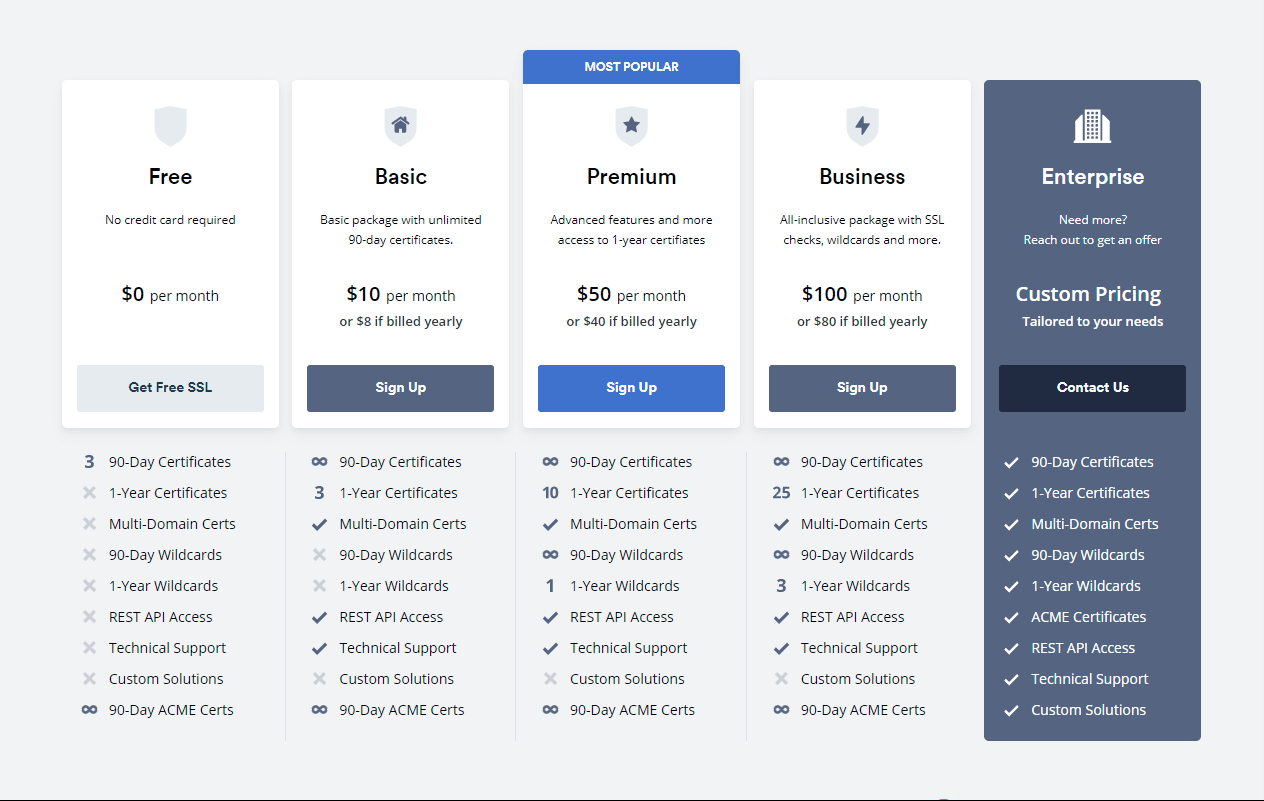
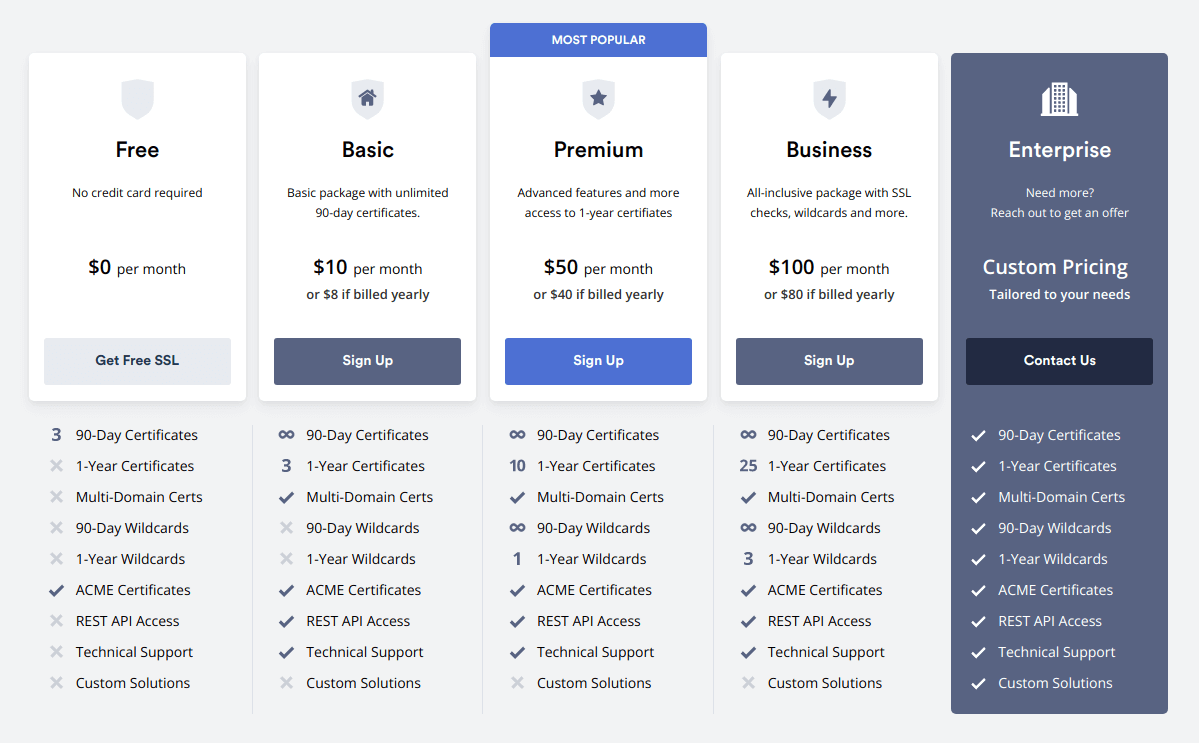
Article and About Page Update
Plus:
* Minify Whitespaces

diff --git a/content/post/2021-08-26-cara-memasang-zerossl-dan-renew-otomatis-di-netlify-bunnycdn/index.md b/content/post/2021-08-26-cara-memasang-zerossl-dan-renew-otomatis-di-netlify-bunnycdn/index.md
@@ -17,10 +17,10 @@ Tags:
 readMore: true
 DescriptionSEO: Apakah Anda ingin memasang ZeroSSL, tapi Anda juga ingin bisa me-renew nya secara otomatis di Netlify dan BunnyCDN? Jika iya, Anda bisa baca artikel ini untuk mengetahuinya.
 Description: >
-    Blog ini telah menggunakan ZeroSSL sebagai Sertifikat SSL nya, tapi kendalanya adalah bahwa SSL ini tidak didukung oleh Penyedia Web secara luas, artinya SSL tersebut belum bisa _di-renew_ secara otomatis.
+    Blog ini telah menggunakan ZeroSSL sebagai Sertifikat SSL nya, tapi kendalanya adalah CA ini tidak didukung oleh Penyedia Web secara luas, artinya Sertifikat tersebut belum bisa _di-renew_ secara otomatis.
     
     
-    Tapi akhirnya, kendala tersebut bisa saya atasi berkat bantuan dari referensi-referensi yang ada dan saya ingin membagikan nya pada Anda, terutama untuk pengguna [Netlify](https://www.netlify.com) dan [BunnyCDN](https://afiliasi.farrel.franqois.id/bunnycdn).
+    Tapi akhirnya, kendala tersebut bisa saya atasi berkat bantuan dari beberapa referensi yang ada dan saya ingin membagikan nya pada Anda, terutama untuk pengguna [Netlify](https://www.netlify.com) dan [BunnyCDN](https://afiliasi.farrel.franqois.id/bunnycdn).
     
     
     Jika Anda ingin memasang Sertifikat SSL dari ZeroSSL pada Web Statis Anda yang menggunakan Netlify sebagai Hosting atau menggunakan BunnyCDN, serta _me-renew_ nya secara otomatis atau Anda yang sekadar ingin tahu saja, mungkin Anda bisa baca artikel ini.
@@ -29,11 +29,11 @@ Description: >
 {{< toc >}}
 
 ## Pembuka
-Artikel kali ini akan membahas tentang Cara memasang ZeroSSL + Renew secara Otomatis di Netlify dan BunnyCDN.
+Artikel kali ini akan membahas tentang Cara memasang ZeroSSL + Renew secara Otomatis di [Netlify](https://www.netlify.com) dan [BunnyCDN](https://afiliasi.farrel.franqois.id/bunnycdn).
 
 Blog ini telah menggunakan ZeroSSL sebagai Sertifikat SSL nya dalam bentuk _Wildcard_. Gak percaya? Silahkan Anda lihat sendiri sertifikat SSL di Blog ini atau kunjungi domain saya, yakni [franqois.id](https://franqois.id), lalu lihat sertifikat nya.
 
-Kendala saat pemasangan nya adalah tidak banyak penyedia yang mendukung ZeroSSL ini, kebanyakan hanya mendukung Let's Encrypt saja.
+Kendala saat pemasangan nya adalah tidak banyak penyedia yang mendukungnya, kebanyakan hanya mendukung Let's Encrypt saja.
 
 Sehingga saya perlu menggunakan acme.sh untuk menerbitkan/memperbarui sertifikat SSL, lalu saya melakukan _Request_ ke Server API nya Netlify dan BunnyCDN untuk memasangkan Sertifikat SSL nya menggunakan cURL. Terlihat sederhana, bukan? Tapi, sebenarnya itu tidak sesederhana dan semudah yang Anda bayangkan.
 
@@ -54,33 +54,35 @@ Serta, jika Anda membuat/menerbitkan sebuah Sertifikat SSL menggunakan Protokol 
 
 Infonya dari mana? Salah satu infonya berasal dari [dokumentasinya](https://zerossl.com/documentation/acme/).
 
-Tapi, sebetulnya jika kamu lebih teliti lagi, di Halaman "[Pricing](https://zerossl.com/pricing/)" nya pun kamu akan menemukan tulisan "90-Day ACME Certs" yang bersebelahan dengan Simbol "tidak terbatas", yang artinya kamu dapat menerbitkan Sertifikat SSL dari Server ACME nya dalam bentuk apapun secara gratis tanpa batasan jumlah.
+~~Tapi, sebetulnya jika kamu lebih teliti lagi, di Halaman "[Pricing](https://zerossl.com/pricing/)" nya pun kamu akan menemukan tulisan "90-Day ACME Certs" yang bersebelahan dengan Simbol "tidak terbatas", yang artinya kamu dapat menerbitkan Sertifikat SSL dari Server ACME nya dalam bentuk apapun secara gratis tanpa batasan jumlah.~~
 
-![Halaman "Pricing" di ZeroSSL, per tanggal: 12 Juli 2021](ZeroSSL_Pricing.png)
+**PEMBARUAN, 16 Oktober 2021:** Simbol tersebut sekarang sudah tidak ada lagi di halaman tersebut, mungkin tujuan nya memang untuk _marketing_ biar ZeroSSL tidak dianggap gratis.
+
+![Halaman "Pricing" di ZeroSSL, per tanggal: 16 Oktober 2021](ZeroSSL_Pricing.png)
 
 Nah, sekarang sudah paham, kan? Jadi, Anda tidak perlu jadi orang kaya atau berduit banyak dulu biar bisa menerbitkan sertifikat SSL dari ZeroSSL, kecuali jika Anda ingin Layanan Dukungan, Akses REST API nya, serta sertifikat SSL dengan masa berlaku selama 1 Tahun, Anda bisa berlangganan yang berbayar.
 
 ### Kenapa ZeroSSL? Dan, kenapa gak Let's Encrypt aja? {#zerossl-vs-lets-encrypt}
-#### Mengakar pada Sectigo/COMODO CA
-Sertifikat SSL dari ZeroSSL bergantung pada Sectigo (sebelumnya dikenal sebagai "COMODO CA"/"COMODO" saja) sebagai Sertifikat Akar, yang telah didukung dan dipercaya oleh mayoritas perangkat lunak sejak lama. 
+#### Kompatibilitas Perangkat
+Sertifikat SSL dari ZeroSSL bergantung pada Sectigo (sebelumnya dikenal sebagai "COMODO CA"/"COMODO" saja) sebagai Sertifikat Akar dari Rantai Sertifikat (yang bisa disebut dengan _Chain of Trust_ atau "Rantai Kepercayaan"), yang telah didukung dan dipercaya oleh mayoritas perangkat lunak sejak lama. 
 
 Informasi mengenai sertifikat akarnya sebagai berikut:
 
-- Akar Pertama: "[AAA Certificate Service](https://censys.io/certificates/d7a7a0fb5d7e2731d771e9484ebcdef71d5f0c3e0a2948782bc83ee0ea699ef4)" yang masa berlakunya sampai 31 Desember 2028 pukul 23:59:59 atau 01 Januari 2029 dalam waktu UTC
+- Akar untuk Rantai (_Chain of Trust_) Pertama: "[AAA Certificate Services](https://censys.io/certificates/d7a7a0fb5d7e2731d771e9484ebcdef71d5f0c3e0a2948782bc83ee0ea699ef4)" yang masa berlakunya sampai 31 Desember 2028 pukul 23:59:59 atau 01 Januari 2029 dalam waktu UTC
 
-- Akar Kedua: "[USERTrust RSA Certification Authority](https://censys.io/certificates/e793c9b02fd8aa13e21c31228accb08119643b749c898964b1746d46c3d4cbd2)" atau "[USERTrust ECC Certification Authority](https://censys.io/certificates/4ff460d54b9c86dabfbcfc5712e0400d2bed3fbc4d4fbdaa86e06adcd2a9ad7a)" yang masing-masing masa berlakunya sampai 18 Januari 2038 pukul 23:59:59 atau 19 Januari 2038 dalam waktu UTC
+- Akar untuk Rantai (_Chain of Trust_) Kedua: "[USERTrust RSA Certification Authority](https://censys.io/certificates/e793c9b02fd8aa13e21c31228accb08119643b749c898964b1746d46c3d4cbd2)" atau "[USERTrust ECC Certification Authority](https://censys.io/certificates/4ff460d54b9c86dabfbcfc5712e0400d2bed3fbc4d4fbdaa86e06adcd2a9ad7a)" yang masing-masing masa berlakunya sampai 18 Januari 2038 pukul 23:59:59 atau 19 Januari 2038 dalam waktu UTC
 
 Ini artinya, hampir semua perangkat lunak bisa menggunakan sertifikat ini, bahkan oleh perangkat lunak versi lama sekalipun (cth. Internet Explorer 6.0+, Mozilla Firefox 1.0+, Opera 6.1+, AOL 5+, Peramban pada Blackberry 4.3.0+, Android 1.5+, dll)
 
 Untuk lebih lanjut, Anda bisa kunjungi halaman [daftar kompatibilitas nya](https://help.zerossl.com/hc/en-us/articles/360058294074-ZeroSSL-Compatibility-List).
 
-Sedangkan akar pada sertifikat SSL dari Let's Encrypt adalah "[DST Root CA X3](https://censys.io/certificates/0687260331a72403d909f105e69bcf0d32e1bd2493ffc6d9206d11bcd6770739)" (dari "IdenTrust") yang juga mendukung dan dipercaya oleh mayoritas perangkat lunak, termasuk Windows XP SP3 dan Android 7.1.1 kebawah.
+Sedangkan Akar dari _Chain of Trust_ nya Let's Encrypt adalah "[DST Root CA X3](https://censys.io/certificates/0687260331a72403d909f105e69bcf0d32e1bd2493ffc6d9206d11bcd6770739)" (dari "IdenTrust") yang juga mendukung dan dipercaya oleh mayoritas perangkat lunak, termasuk Windows XP SP3 dan Android 7.1.1 kebawah.
 
 Namun, sebelumnya sempat ada ["kegundahan"](https://letsencrypt.org/2020/11/06/own-two-feet.html) karena Akar yang mereka gunakan sudah mau habis masa berlakunya, akar tersebut akan habis pada tanggal 30 September 2021 dan akan digantikan dengan yang baru, yakni "[ISRG Root X1](https://censys.io/certificates/96bcec06264976f37460779acf28c5a7cfe8a3c0aae11a8ffcee05c0bddf08c6)" (dari "Internet Security Research Group"), sehingga ini berimbas pada perangkat lama, terutama untuk Android 7.1.1 kebawah.
 
 Tapi, masalah ini [selesai](https://letsencrypt.org/2020/12/21/extending-android-compatibility.html) untuk Android dengan melakukan _Cross-Signing_, yang artinya sertifikat akar yang lama (DST Root CA X3) telah menerbitkan sertifikat yang 'sama dengan' sertifikat akar barunya, yakni "[ISRG Root X1](https://censys.io/certificates/6d99fb265eb1c5b3744765fcbc648f3cd8e1bffafdc4c2f99b9d47cf7ff1c24f)" sebagai sertifikat penengah, agar 'rantai' dapat terus digunakan meski ada bagian yang rapuh karena sudah habis masanya.
 
-![Cuplikan layar Hierarki/Rantai Sertifikat SSL dari Let's Encrypt di Android 6.0 (di dalam Peramban Web berbasis Chrome/Chromium), bukti bahwa Cross-sign itu bekerja](Hierarki_Sertifikat_SSL_Lets_Encrypt_di_Android_6.png)
+![Cuplikan layar Rantai Kepercayaan dari Let's Encrypt di Android 6.0 (di dalam Peramban Web berbasis Chrome/Chromium), bukti bahwa Cross-sign itu bekerja](Hierarki_Sertifikat_SSL_Lets_Encrypt_di_Android_6.png)
 
 Hal ini bukan berarti masalah sudah selesai sepenuhnya, kemungkinan besar bahwa ada perangkat lain yang tidak kompatibel dengan Akar baru ini setelah Akar pertama habis masa berlaku nya, kecuali Windows XP SP3 (jika Anda memperbarui sertifikat akar nya) dan Android 2.3.6 (atau di atasnya).
 
@@ -137,13 +139,14 @@ Sistem Operasi berbasis Unix/Mirip-Unix (\*nix) seperti GNU/Linux, macOS, dan BS
 
 Asal punya OpenSSL (atau LibreSSL?), cURL dan Cron, maka acme.sh dapat dijalankan sebagaimana mestinya, serta Anda dapat mengikuti Artikel ini secara keseluruhan. Wget juga bisa Anda gunakan, tapi di artikel ini saya bahas Wget hanya untuk mengunduh dan menginstal acme.sh saja.
 
-Selain itu, Anda juga dapat meng-instal Socat (Socket Cat) agar acme.sh dapat dijalankan dalam "Standalone Mode", tapi itu tidak saya bahas lebih lanjut di sini.
+Selain itu, Anda juga dapat menginstal Socat (Socket Cat) agar acme.sh dapat dijalankan dalam "Standalone Mode", tapi itu tidak saya bahas lebih lanjut di sini.
 
 #### Untuk Pengguna Windows {#persiapan-pengguna-windows}
 {{< spoiler text="tl;dr" >}}
 Jika terlalu panjang, maka hal-hal yang harus Anda siapkan adalah sebagai berikut:
 - Memiliki Akses ke Lingkungan Unix/Mirip-Unix: (Pilih salah satu caranya)
     - Mengaktifkan fitur [WSL (Windows Subsystem for Linux)](https://docs.microsoft.com/en-us/windows/wsl/install-win10) untuk Windows 10 atau di atasnya
+    - Menggunakan Perangkat Lunak yang dapat mengemulasikan lingkungan UNIX, seperti Git Bash, Cygwin, dll, namun opsi ini belum saya coba
     - Mesin Virtual atau Kontainer dengan Sistem Operasi berbasis Unix/Mirip-Unix (disarankan GNU/Linux)
     - Mengakses Server Anda yang menggunakan Sistem Operasi \*nix dengan menggunakan Klien SSH
 - Persiapan Perangkat Lunak pada WSL, Mesin Virtual/Kontainer atau pada Server bisa mengikuti [persiapan untuk Sistem Operasi \*nix](#persiapan-pengguna-unix-like)
@@ -153,9 +156,11 @@ Jika Anda menggunakan Windows, maka Anda perlu untuk mengakses Lingkungan Unix/M
 
 Jika Anda menggunakan Windows 10 (atau di atasnya), maka Anda bisa gunakan fitur [WSL (Windows Subsystem for Linux)](https://docs.microsoft.com/en-us/windows/wsl/install-win10) agar Anda bisa menggunakan Sistem Operasi GNU/Linux di dalam Windows.
 
-Atau, jika Anda tidak ingin/tidak bisa menggunakan WSL, maka Anda juga bisa memiliki Mesin Virtual/Kontainer dan Instal, lalu gunakan Sistem Operasi berbasis Unix/Mirip-Unix (seperti GNU/Linux) di dalam Mesin tersebut.
+Jika Anda tidak ingin/tidak bisa menggunakan WSL, maka Anda juga bisa menggunakan perangkat lunak yang dapat mengemulasikan lingkungan UNIX, seperti Git Bash, Cygwin, dan lain nya, namun itu belum saya coba. 
 
-Atau, Anda juga bisa akses Server Anda yang menggunakan Sistem Operasi \*nix untuk mengikuti artikel ini dengan menggunakan Klien SSH tanpa perlu mengorbankan kinerja pada Komputer/Laptop Anda.
+Atau, memiliki Mesin Virtual/Kontainer dan Instal, lalu gunakan Sistem Operasi berbasis Unix/Mirip-Unix (seperti GNU/Linux) di dalam Mesin tersebut.
+
+Selain itu, Anda juga bisa akses Server Anda yang menggunakan Sistem Operasi \*nix untuk mengikuti artikel ini dengan menggunakan Klien SSH tanpa perlu mengorbankan kinerja pada Komputer/Laptop Anda.
 
 Ketika Anda sedang memakai WSL, Mesin Virtual/Kontainer atau Server, maka Anda bisa mengikuti persiapan perangkat lunak untuk Sistem Operasi \*nix. Jadi pastikan jika cURL, OpenSSL (atau LibreSSL?) dan Cron sudah ada di dalam Sistem WSL (Biasanya ada), di dalam Mesin Virtual/Kontainer atau di dalam Server Anda.
 
@@ -204,6 +209,8 @@ Sebelum Anda lanjut, saya peringati bahwa Artikel/Tutorial yang dibahas ini sang
 
 Meskipun artikel ini Panjang x Lebar, saya usahakan agar semuanya saya bahas dalam langkah-demi-langkah, sehingga lebih mudah dipahami oleh Anda.
 
+Oleh karena itu, saya sarankan Anda gunakan perangkat dengan layar yang lebih besar ketimbang layar dari Ponsel Anda yang sekarang (cth. PC/Laptop, Monitor, Tablet/Televisi Pintar, Desktop Mode pada Ponsel/Tablet Pintar, dll) dan memiliki sebuah Papan ketik (_Keyboard_) untuk mengikuti artikel ini.
+
 Jika Anda mengalami kesulitan dalam bernavigasi, silahkan Anda gunakan tombol <key>CTRL</key>+<key>F</key>, lalu isi dengan bagian atau teks yang ingin Anda cari.
 
 Saya usahakan agar pembahasan di artikel ini bisa diterapkan/diikuti oleh hampir semua pengguna Sistem Operasi, termasuk tapi tidak terbatas pada Sistem Operasi Windows dan hampir semua Sistem Operasi berbasis \*nix, seperti Sistem Operasi yang menggunakan Kernel Linux (cth. GNU/Linux, Android, Alpine Linux, Void Linux, dll), macOS, BSD, dan Sistem Operasi \*nix lainnya.
@@ -222,6 +229,8 @@ Atau, Anda juga bisa lewati bagian ini jika Anda sudah pernah mendaftarkan akun 
 ### Membuat Akun ZeroSSL dan mendapatkan Kredensial EAB nya {#membuat-akun-zerossl}
 {{< info text="**Catatan:**" >}}
 Jika Anda belum mempunyai Akun nya dan ingin menggunakan acme.sh tanpa harus mendaftarkan akun ZeroSSL nya, lewati ini dan langsung [lanjut saja](#install-acme-sh).
+
+Tapi saya tetap sarankan agar Anda tidak melewati langkah ini.
 {{< / info >}}
 
 Sebelum Anda menerbitkan Sertifikat SSL nya, maka Anda disarankan untuk mendaftar akun ZeroSSL nya terlebih dahulu melalui [Situs Webnya](https://zerossl.com).
@@ -245,11 +254,11 @@ Jika Anda tidak memahami langkah-langkah di atas, maka Anda dapat melihat Cuplik
 Setelah Kredensial EAB dibuat, ya sudah lanjut saja ke langkah berikutnya, yakni Instal acme.sh, Anda sama sekali tidak perlu menerbitkan Sertifikat SSL nya di sana.
 
 ### Instal acme.sh {#install-acme-sh}
-Setelah mendaftar akun ZeroSSL, salah satu yang perlu Anda lakukan adalah meng-instal acme.sh terlebih dahulu di dalam Sistem Operasi Anda.
+Setelah mendaftar akun ZeroSSL, salah satu yang perlu Anda lakukan adalah menginstal acme.sh terlebih dahulu di dalam Sistem Operasi Anda.
 
-Tidak perlu menggunakan Akun Administrator atau `root` untuk meng-instalnya, atau tidak perlu dieksekusikan melalui perintah `sudo`, cukup gunakan saja akun Anda, seperti biasanya. (Bahkan, lebih baik gini)
+Tidak perlu menggunakan Akun Administrator atau `root` untuk meng-instalnya, atau tidak perlu dieksekusikan melalui perintah `sudo` layaknya Certbot, cukup gunakan saja akun Anda, seperti biasanya. (Bahkan, lebih baik gini)
 
-Cara meng-instalnya adalah dengan meng-eksekusikan salah satu perintah berikut:
+Cara menginstalnya adalah dengan mengeksekusikan salah satu perintah berikut:
 
 Dengan cURL:
 
@@ -312,7 +321,7 @@ Selain itu, karena Anda ingin memasang sertifikat SSL di Penyedia Web yang sedan
 
 Namun, agar perkakas acme.sh dapat melakukan verifikasi DNS secara otomatis saat menerbitkan dan memperbarui sertifikat SSL nya, maka acme.sh harus dapat mengakses dan merubah _DNS Record_ di dalam Domain milik Anda dengan mengakses Akun Penyedia DNS Otoritatif milik Anda.
 
-Untuk itu, Anda perlu berikan acme.sh sebuah izin mengakses akun untuk keperluan membaca dan merubah _DNS Record_ nya dengan memberikan sebuah _Token_, Kunci API atau bahkan Nama Pengguna dan Kata Sandi untuk mengakses akun tertentu.
+Untuk itu, Anda perlu berikan acme.sh sebuah izin mengakses akun untuk membaca dan merubah _DNS Record_ nya dengan memberinya sebuah _Token_, Kunci API atau bahkan Nama Pengguna dan Kata Sandi untuk mengakses akun tertentu.
 
 Bisa saja Anda melakukannya secara Manual, sehingga Anda menambahkan _DNS Record_ nya secara manual.
 
@@ -1366,7 +1375,7 @@ Anda bisa mengganti `acme.sh.tar.gz` menjadi nama berkas yang Anda inginkan, asa
 ```bash
 curl https://get.acme.sh | sh -s
 ```
-5. Setelah Anda meng-instal nya, dekripsi berkas `acme.sh.tar.gz` jika Anda melakukan enkripsi, lalu ekstrak berkas tersebut dengan perintah berikut:
+5. Setelah Anda menginstalnya, dekripsi berkas `acme.sh.tar.gz` jika Anda melakukan enkripsi, lalu ekstrak berkas tersebut dengan perintah berikut:
 ```bash
 tar -xvzf acme.sh.tar.gz
 ```
@@ -1378,7 +1387,7 @@ printf "USER_PATH='%s'\n" ${PATH} >> ${HOME}/.acme.sh/account.conf
 ```
 7. Jika Anda membuat berkas skrip terpisah (mengikuti [Metode ke-2](#membuat-berkas-skrip-shell)), maka aturlah _Crontab_ di Termux agar Berkas Skrip `renew-ssl.sh` bisa dieksekusi secara terjadwal oleh _Cron Job_. Bila masih belum paham/lupa, silahkan Anda baca bagian [Otomatisasi dengan _Cron Job_](#otomatisasi-skrip-dengan-cron-jobs) di atas. 
 
-   Jika Anda mengikuti [Metode Pertama](#memanfaatkan-konfigurasi-acme-sh), maka harusnya Anda bisa lewati langkah ini, karena biasanya _Crontab_ secara otomatis di atur setelah Anda meng-instal perkakas acme.sh nya. 
+   Jika Anda mengikuti [Metode Pertama](#memanfaatkan-konfigurasi-acme-sh), maka harusnya Anda bisa lewati langkah ini, karena biasanya _Crontab_ secara otomatis di atur setelah Anda menginstal perkakas acme.sh nya. 
 
    Kalau tidak yakin, Anda bisa mengaturnya secara manual atau eksekusikan perintah `acme.sh --install-cronjob` di dalam Termux Anda untuk memasang Cron Job nya.
 
@@ -1458,42 +1467,23 @@ acme.sh --issue -d domain.com -d www.domain.com --server opsi_ca --force
 Anda bisa ganti `opsi_ca` dengan nama pendek dari CA yang didukung oleh acme.sh atau dengan Alamat URL Server ACME yang dimiliki oleh CA, seperti yang telah saya bahas di pertanyaan sebelumnya.
 
 ### Pertanyaan ke-7: Bagaimana caranya agar saya bisa menghapus sertifikat nya? {#pertanyaan-ke7}
-**Jawab:** Jika Anda berniat untuk menghapus sertifikat SSL dari acme.sh, maka Anda perlu mengetahui Domain mana yang ingin dihapus sertifikat SSL nya dan Domain Pertama yang Anda masukkan saat menerbitkan sertifikat SSL nya.
-
-Pertama-tama, Anda perlu tahu Domain Pertama yang Anda masukkan dengan mengetahui isi dari direktori acme.sh nya, memakai perintah berikut: (beserta keluarannya)
-
-```shell
-$ ls -la ${HOME}/.acme.sh
-total 276
-drwx------  10 user user   4096 Agu 16 01:13 .
-drwxr-xr-x 137 user user  20480 Agu 16 01:43 ..
--rw-------   1 user user    560 Agu 12 22:03 account.conf
--rwx--x--x   1 user user 207935 Agu 11 16:56 acme.sh
--rw-------   1 user user     92 Jul  4 18:22 acme.sh.env
-drwx------   4 user user   4096 Agu 12 14:14 ca
-drwxr-xr-x   2 user user   4096 Agu 11 16:56 deploy
-drwxr-xr-x   2 user user   4096 Agu 11 16:56 dnsapi
-drwx------   2 user user   4096 Jul 22 12:06 '*.domain.com'
-drwx------   2 user user   4096 Jul 22 12:06 '*.domain.com_ecc'
-drwx------   2 user user   4096 Jul 22 12:06 domain.com
-drwx------   2 user user   4096 Jul 22 12:06 domain.com_ecc
--rw-------   1 user user    335 Agu 16 01:12 http.header
-drwxr-xr-x   2 user user   4096 Agu 11 16:56 notify
-```
-
-Nah, sekarang lihat hasil keluaran di atas, itu ada nama domain `domain.com` dan `*.domain.com`, itu adalah domain pertama yang Anda masukkan saat menerbitkan sertifikat SSL, beserta ada versi ECC nya (cth. `domain.com_ecc` dan `*.domain.com_ecc`).
-
-Anda bisa pilih salah satu domain yang ingin Anda hapus, di pembahasan kali ini saya menghapus sertifikat SSL untuk `domain.com` yang bukan merupakan sertifikat SSL dengan kunci ECC.
-
-Untuk memasukkan alamat Domain nya, Anda tidak perlu mengingat deretan domain saat menerbitkan SSL, Anda cukup tahu Domain Pertama yang Anda masukkan saat menerbitkan sertifikat SSL nya dan itu bisa Anda lihat melalui nama direktorinya saja.
-
-Setelah itu, Anda bisa menghapusnya dengan perintah berikut:
+**Jawab:** Anda bisa menghapusnya dengan perintah berikut:
 
 ```shell
 acme.sh --remove -d domain.com
 ```
 
-Nanti keluaran nya akan seperti berikut:
+Anda bisa menambahkan argumen `--ecc` jika Anda ingin menghapus sertifikat ECC/ECDSA, contoh perintah nya akan seperti berikut:
+
+```shell
+acme.sh --remove -d domain.com --ecc
+```
+
+Ganti `domain.com` menjadi Domain mana yang ingin Anda hapus sertifikat nya, tidak perlu mengingat seluruh domain yang Anda masukkan saat menerbitkan sebuah sertifikat SSL, cukup ingat Domain Pertama yang Anda masukkan saat menerbitkan nya.
+
+Jika Anda tidak ingat Domain Pertama yang Anda masukkan, silahkan lihat isi dari direktori `~/.acme.sh` atau `${HOME}/.acme.sh`, di situ akan ada folder yang bernama Alamat Domain Anda.
+
+Setelah mengeksekusi perintah di atas, nanti keluaran nya akan seperti berikut:
 
 ```shell
 [Sen 16 Agu 2021 01:12:56  WIB] domain.com is removed, the key and cert files are in /home/username/.acme.sh/domain.com
@@ -1502,13 +1492,7 @@ Nanti keluaran nya akan seperti berikut:
 
 Jika perlu, Anda juga bisa menghapus secara manual folder tersebut sesuai dengan keluaran agar lebih bersih.
 
-Tapi jika Anda ingin menghapus sertifikat SSL versi ECC nya, maka Anda tinggal perlu tambahkan paramter `--ecc` nya saja. Format perintah nya seperti berikut:
-
-```shell
-acme.sh --remove -d domain.com --ecc
-```
-
-Jadi, sekarang Anda sudah paham kan caranya?
+Nah, sekarang Anda sudah paham kan caranya?
 
 ### Pertanyaan ke-8: Sertifikat SSL sudah saya hapus, tapi pas saya jalankan acme.sh dalam Cron atau untuk memperbarui semua SSL (`--renew-all`), kok domain yang terhapus masih ada saat saya cek di Terminal? {#pertanyaan-ke8}
 **Jawab:** Itu karena Anda belum menghapus direktori nya setelah menghapus sertifikat SSL dari perkakas acme.sh nya. Jadi, Anda perlu menghapus direktori tersebut secara manual.
@@ -1518,7 +1502,11 @@ Solusi nya adalah Hapus Direktori tersebut (cth. `${HOME}/.acme.sh/domain.com` u
 ### Pertanyaan ke-9: Kenapa harus acme.sh dan kenapa tidak pakai yang lain seperti Certbot atau Lego? {#pertanyaan-ke9}
 **Jawab:** Karena acme.sh lebih sederhana dan lebih mudah dipelajari, serta fiturnya pun lumayan lengkap juga, apalagi untuk kasus umum seperti menerbitkan dan memperbarui sertifikat SSL.
 
-Selain itu, acme.sh juga mendukung berbagai Sistem Operasi \*nix dan lebih ringan karena itu merupakan berkas skrip _Shell_, serta mendukung berbagai layanan DNS Otoritatif yang ada di Internet dan berbagai CA baku selain Let's Encrypt dan ZeroSSL yang bisa Anda ganti tanpa perlu memasukkan Alamat URL nya lagi.
+Perkakas tersebut bisa diakses tanpa perlu akun `root` atau perintah `sudo` sama sekali, sehingga bisa diakses seperti biasa.
+
+Saya dengar kalau Certbot memerlukan akses root atau menggunakan perintah `sudo` untuk itu, kalau itu benar maka hal itu gak banget, apalagi kalau kasusnya adalah memasangkan sertifikat SSL di Netlify dan BunnyCDN.
+
+Selain itu, acme.sh juga mendukung berbagai Sistem Operasi \*nix dan lebih ringan karena itu merupakan berkas skrip _Shell_, serta mendukung berbagai layanan DNS Otoritatif yang ada di Internet dan berbagai CA baku selain Let's Encrypt dan ZeroSSL yang bisa Anda ganti tanpa perlu memasukkan Alamat URL nya lagi, mudah dipindahkan atau digandakan ke perangkat lain, dan sebagainya.
 
 Mengenai alasan kenapa saya tidak menggunakan [Lego](https://github.com/go-acme/lego) sebagai perkakas klien ACME, karena jujur saja saya baru tahu perkakas tersebut dan saya sendiri sudah lama terbiasa dengan acme.sh, jadi saya perlu waktu untuk mempelajari nya.
 
@@ -1604,7 +1592,7 @@ Caranya sebagai berikut:
         - Ganti `nama-pengguna` dengan Nama Pengguna/_Username_ di WSL kamu
         - Ganti `${HOME}/lokasi/ke/berkas/renew-ssl.sh` dengan lokasi berkas skrip `renew-ssl.sh` yang telah kamu buat sebelumnya atau ganti itu dengan `${HOME}/.acme.sh/acme.sh --cron` jika Anda menggunakan Metode Pertama dalam membuat skrip.
 
-8. Pada langkah "**Finish**", kamu akan diperlihatkan tugas yang ingin kamu buat. Periksa terlebih dahulu tugas yang ingin kamu buat sebelum diinangkan. Jika merasa yakin, silahkan klik "**Finish**".
+8. Pada langkah "**Finish**", kamu akan diperlihatkan tugas yang ingin kamu buat. Periksa terlebih dahulu tugas yang ingin kamu buat sebelum diinangkan, jika merasa yakin, silahkan klik "**Finish**".
 
 Cuma kekurangan dari cara "Task Scheduler" adalah jika tugas tersebut dieksekusi, maka akan muncul Jendela/_Window_ yang akibatnya cukup menganggu aktivitas yang sedang Anda lakukan saat menggunakan Aplikasi di Windows (cth. Saat bermain sebuah Gim/Gim Daring, dll)
 
@@ -1624,7 +1612,7 @@ Jadi, pasanglah sertifikat SSL dengan benar!
 ### Pertanyaan ke-16: Kok Sertifikat USERTrust yang saya lihat masa berlakunya cuma sampai tahun 2029 saja, bukan nya sampai tahun 2038 seperti yang dibahas tadi? {#pertanyaan-ke16}
 **Jawab:** Sertifikat USERTrust yang Anda lihat itu bukanlah Sertifikat Akar nya. Kenapa? Karena ia masih mengakar pada Sertifikat "AAA Certificate Services".
 
-Syarat agar menjadi "Sertifikat Akar" adalah bahwa ia tidak mengakar pada Sertifikat apapun, melainkan mengakari Sertifikat lain dan dalam hierarki sertifikat SSL, posisi Sertifikat Akar itu merupakan yang paling tinggi dibandingkan dengan bawahan nya.
+Syarat agar menjadi "Sertifikat Akar" adalah bahwa ia tidak mengakar pada Sertifikat apapun, melainkan mengakari Sertifikat lain dan dalam hierarki sertifikat SSL atau Rantai Kepercayaan, posisi Sertifikat Akar itu merupakan yang paling tinggi dibandingkan dengan bawahan nya.
 
 Jika Anda bingung, silahkan lihat cuplikan berikut:
 
@@ -1634,9 +1622,9 @@ Seperti yang Anda lihat pada cuplikan di atas, hierarki tertinggi untuk Sertifik
 
 Berbeda bila dibandingkan dengan Hierarki/Rantai Sertifikat SSL di Sistem Operasi berbasis \*nix seperti GNU/Linux dan Android (terutama versi terbaru), serta Perangkat Lunak lain seperti Mozilla Firefox yang malah menempatkan "USERTrust ECC Certification Authority" sebagai Sertifikat Akar nya.
 
-Jadi, sertifikat akar yang Anda dapatkan itu bergantung pada Perangkat Lunak yang Anda gunakan.
+Jadi, sertifikat akar/rantai (atau _Chain of Trust_) yang Anda dapatkan itu bergantung pada Perangkat Lunak yang Anda gunakan.
 
-### Pertanyaan ke-17: Kenapa Sertifikat Akar yang didapat bisa berbeda-beda di tiap perangkat? {#pertanyaan-ke17}
+### Pertanyaan ke-17: Kenapa Sertifikat Akar/Rantai yang didapat bisa berbeda-beda di tiap perangkat? {#pertanyaan-ke17}
 **Jawab:** Saya kurang tahu, mungkin akan tergantung Perangkat Lunak yang Anda gunakan, bisa jadi karena Perangkat Lunak tersebut mendukung _Cross-signing_, karena alasan keamanan, 'kepercayaan' atau lain nya, yang ini hanya kemungkinan saja, karena saya tidak mempunyai referensi mengenai ini.
 
 Alasan lain kenapa masih menggunakan Sertifikat Akar yang lama oleh Perangkat Lunak adalah karena Perangkat Lunak tersebut sudah 'berumur', tidak diperbarui ataupun tidak bisa memperbarui Sertifikat yang ada, sehingga sertifikat akar alternatif belum/tidak ada.
@@ -1822,7 +1810,7 @@ Berikut adalah referensi nya:
 - Untuk cara menghilangkan jeda baris nya (_line break_) dan menggantinya dengan karakter `\n`, saya menggunakan [jawaban dari "Ed Morton"](https://stackoverflow.com/a/38674872) di Stack Overflow sebagai referensi, jawaban nya dilisensikan di bawah lisensi [CC BY-SA 4.0](https://creativecommons.org/licenses/by-sa/4.0/).
 
 ### Referensi untuk lain nya
-- Utas yang berjudul **"[How do I Crontab on Termux..](https://www.reddit.com/r/termux/comments/i27szk/how_do_i_crontab_on_termux/)"** di Reddit sebagai referensi untuk meng-instal _Cron Job_ di Termux
+- Utas yang berjudul **"[How do I Crontab on Termux..](https://www.reddit.com/r/termux/comments/i27szk/how_do_i_crontab_on_termux/)"** di Reddit sebagai referensi untuk menginstal _Cron Job_ di Termux
 - Utas yang berjudul **"[Do I need to set crontab again when I restart termux?](https://www.reddit.com/r/termux/comments/n6y82b/do_i_need_to_set_crontab_again_when_i_restart/)"** di Reddit sebagai referensi untuk mengaktifkan Layanan Cron jika Termux diterminasi
 - Halaman yang berjudul **"[RSA key lengths](https://www.javamex.com/tutorials/cryptography/rsa_key_length.shtml)"** dari Javamex sebagai referensi untuk pengaruh Ukuran kunci RSA bagi kecepatan
 - Hasil dari pengujian dengan perintah `openssl speed rsa2048 rsa3072 rsa4096` yang rata-rata menyatakan/menyimpulkan bahwa semakin besar ukuran kunci nya (terutama untuk kunci RSA), maka akan semakin besar pengaruhnya terhadap kecepatan.

diff --git a/content/page/tentang.md b/content/page/tentang.md
@@ -23,16 +23,47 @@ menu:
   }
 </style>
 
-## Tentang Saya dan Blog ini
+## Tentang Saya
 Saya adalah makhluk hidup yang biasa-biasa saja, penuh dengan salah dan yah biasa-biasa aja, gak ada istimewa nya. Jika adanya kesalahan teknis pada Blog ini, harap dimaklumi, saya juga sedang belajar menggunakan _Static-site Generator_.
 
-Blog ini telah menggunakan [Storj DCS (Decentralized Cloud Storage)](https://www.storj.io) sebagai Hosting dan [Bunny CDN](https://afiliasi.farrel.franqois.id/bunnycdn) sebagai _Reverse-proxy_, _TLS termination_ dan CDN, serta menggunakan [ZeroSSL](https://zerossl.com) sebagai Sertifikat SSL nya. 
+## Tentang Blog ini
+### Ikhtisar
+Blog ini merupakan blog pribadi milik saya, tapi yang saya bahas ini bukan sekadar tentang pribadi saya saja. Di blog ini, saya membahas apa yang ingin saya bahas.
 
-Selain itu, saya juga menggunakan [Statically](https://statically.io) sebagai CDN untuk memuat semua berkas-berkas statik di blog ini, termasuk Berkas Gambar, CSS, JS, Fonta yang tersimpan di dalam blog ini dan memuat pustaka-pustaka yang ada.
+Bukan apa-apa, namun mungkin blog ini agak _nge-random_ pembahasan nya, entah itu bikin tutorial, beropini, bikin catatan biar gak lupa atau sekadar bikin diari kalo niat.
 
-Blog ini di bangun dengan [Hugo Extended](https://gohugo.io/) (versi [{{< hugo-version >}}](https://github.com/gohugoio/hugo/releases/tag/v{{< hugo-version >}})) dan saya menggunakan tema ["Stack"](https://github.com/CaiJimmy/hugo-theme-stack) yang di rancang oleh [Jimmy Cai](https://jimmycai.com).
+### Penggunaan Blog
+Agar blog ini 'hidup' (bukan dalam artian _makhluk hidup_ yah), maka saya perlu beberapa komponen yang membantu nya.
 
-Bukan apa-apa, namun kedepan nya mungkin blog ini agak nge-_random_ dari yang biasanya saya selalu bikin tutorial.
+Blog ini pake apa aja sih? Nah, berikut adalah apa yang saya pakai untuk blog ini:
+
+- SSG: [Hugo Extended](https://gohugo.io/) (versi [{{< hugo-version >}}](https://github.com/gohugoio/hugo/releases/tag/v{{< hugo-version >}})), saya gak pake CMS/_Platform_ kayak WordPress
+- Tema: [Stack](https://github.com/CaiJimmy/hugo-theme-stack) yang di rancang oleh [Jimmy Cai](https://jimmycai.com)
+- Fonta: [Lato](https://www.latofonts.com/)
+- VCS: [GitHub](https://www.github.com)
+- CI/CD:
+  - GitHub Actions sebagai CI/CD Utama
+  - Netlify sebagai CI/CD Cadangan dan untuk pratinjau
+- Domain: 
+  - [Digital Registra](https://www.digitalregistra.co.id/) sebagai Registrar Domain
+  - [Dewaweb](https://afiliasi.farrel.franqois.id/dewaweb) sebagai Reseller/Pengelola Domain nya
+- Hosting:
+  - [Storj DCS (Decentralized Cloud Storage)](https://www.storj.io) sebagai Hosting Utama
+  - [Bunny Edge Storage](https://bunny.net/edge-storage?ref=giufh6asq3) dan [Netlify](https://www.netlify.com) sebagai Hosting Cadangan
+- Reverse-proxy: [Bunny CDN](https://afiliasi.farrel.franqois.id/bunnycdn)
+- Sertifikat SSL: [ZeroSSL](https://zerossl.com)
+- CDN: [Statically](https://statically.io) (Untuk berkas JS, CSS, Fonta dan gambar, baik itu yang disimpan di dalam Blog ini atau Eksternal)
+
+### Kode Sumber Blog
+Jika Anda menginginkan Kode Sumber Blog ini, entah untuk tujuan kontribusi, mempelajari blog ini atau lain nya, silahkan kunjungi alamat URL berikut:
+
+```plain
+https://github.com/FarrelF/Blog
+```
+
+Kode Sumber tersebut dilisensikan di bawah [GNU AGPLv3](https://github.com/FarrelF/Blog/blob/main/LICENSE), tapi artikel di blog ini secara baku saya lisensikan di bawah [CC BY-SA 4.0](https://creativecommons.org/licenses/by-sa/4.0/), kecuali jika ada yang [dinyatakan sebaliknya](/ketentuan-dan-kebijakan-blog).
+
+Jadi, mungkin ada beberapa materi tertentu yang bisa saja diterbitkan di bawah lisensi yang berbeda (Contoh: Gambar/Media yang bersumber dari Luar, dll) dan lisensi untuk materi-materi tersebut akan saya sebutkan di masing-masing Artikel dan Laman sebagai Atribusi jika saya diizinkan untuk menggunakan nya.
 
 ## Informasi Kontak
 ### Surel
